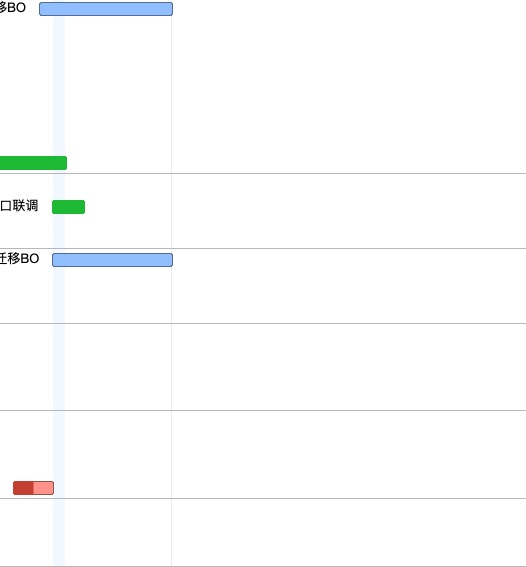
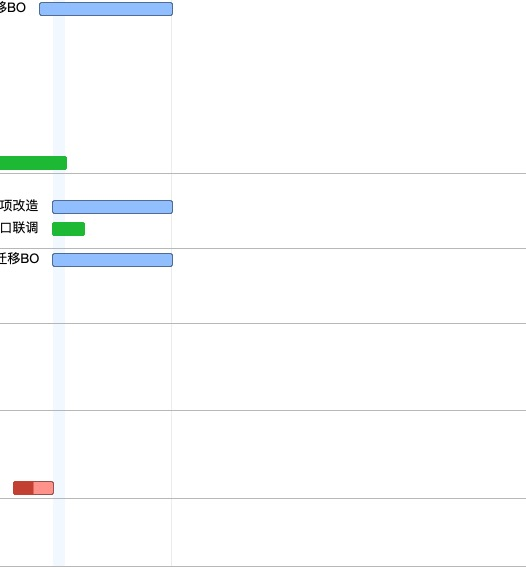
upgrade

Changed region(s): [[0.0, 0.3298, 0.3346, 0.4198]]

diff --git a/FSCv1910/gantt.html b/FSCv1910/gantt.html
@@ -30,28 +30,28 @@
 	<h1>FSCv1910：甘特图</h1>
 		<div class="tablewrap"><table border="0" cellspacing="0" cellpadding="0">
 <tr>
-	<td><img src="include/gantt0,0.jpg?nocacheTag=-944571054" border=0/></td>
-	<td><img src="include/gantt1,0.jpg?nocacheTag=-503428031" border=0/></td>
+	<td><img src="include/gantt0,0.jpg?nocacheTag=-1644685447" border=0/></td>
+	<td><img src="include/gantt1,0.jpg?nocacheTag=-1307821228" border=0/></td>
 </tr>
 <tr>
-	<td><img src="include/gantt0,1.jpg?nocacheTag=1110593521" border=0/></td>
-	<td><img src="include/gantt1,1.jpg?nocacheTag=86645347" border=0/></td>
+	<td><img src="include/gantt0,1.jpg?nocacheTag=-980412770" border=0/></td>
+	<td><img src="include/gantt1,1.jpg?nocacheTag=-256578804" border=0/></td>
 </tr>
 <tr>
-	<td><img src="include/gantt0,2.jpg?nocacheTag=219761669" border=0/></td>
-	<td><img src="include/gantt1,2.jpg?nocacheTag=-72248886" border=0/></td>
+	<td><img src="include/gantt0,2.jpg?nocacheTag=-1946728188" border=0/></td>
+	<td><img src="include/gantt1,2.jpg?nocacheTag=1980436838" border=0/></td>
 </tr>
 <tr>
-	<td><img src="include/gantt0,3.jpg?nocacheTag=1398989201" border=0/></td>
-	<td><img src="include/gantt1,3.jpg?nocacheTag=1748326239" border=0/></td>
+	<td><img src="include/gantt0,3.jpg?nocacheTag=-355829046" border=0/></td>
+	<td><img src="include/gantt1,3.jpg?nocacheTag=741122505" border=0/></td>
 </tr>
 <tr>
-	<td><img src="include/gantt0,4.jpg?nocacheTag=-1518446128" border=0/></td>
-	<td><img src="include/gantt1,4.jpg?nocacheTag=-1741873305" border=0/></td>
+	<td><img src="include/gantt0,4.jpg?nocacheTag=-184918016" border=0/></td>
+	<td><img src="include/gantt1,4.jpg?nocacheTag=-144047482" border=0/></td>
 </tr>
 <tr>
-	<td><img src="include/gantt0,5.jpg?nocacheTag=1729067344" border=0/></td>
-	<td><img src="include/gantt1,5.jpg?nocacheTag=-361768638" border=0/></td>
+	<td><img src="include/gantt0,5.jpg?nocacheTag=708191175" border=0/></td>
+	<td><img src="include/gantt1,5.jpg?nocacheTag=-1404297167" border=0/></td>
 </tr>
 </table>
 </div>

diff --git a/FSCv1910/index.html b/FSCv1910/index.html
@@ -32,8 +32,8 @@
 			<p class="number"><span class="data-missing">无</span></p>
 		</div>
 		<div id="completed" class="box">
-			<h2><span class="number">53%</span>已完成</h2>
-			<div id="bar"><div id="fill" style="width:53%;"></div></div>
+			<h2><span class="number">52%</span>已完成</h2>
+			<div id="bar"><div id="fill" style="width:52%;"></div></div>
 			<p><span class="label">开始：</span>2019/7/17 上午8:00</p>
 			<p><span class="label">结束日期：</span>2019/9/13 下午7:00</p>
 			<p><span class="label">差异：</span>3 周 2 天 4 小时</p>
@@ -161,9 +161,9 @@
 <tr class="resource Staff">
 <td style="padding-left: 20px;">雷森品</td>
 <td>2019/7/30 上午9:00</td>
-<td>2019/8/22 下午1:40</td>
-<td>&lt; 1 周 2 天 2.75 小时</td>
-<td>100%</td>
+<td>2019/8/30 下午7:00</td>
+<td>&lt; 3 周 1 天 2.75 小时</td>
+<td>57%</td>
 <td></td>
             </tr>
 <tr class="resource Staff">

diff --git a/FSCv1910/resource.html b/FSCv1910/resource.html
@@ -608,9 +608,9 @@
 <tr class="resource Staff">
 <td style="padding-left: 20px;">雷森品</td>
 <td>2019/7/30 上午9:00</td>
-<td>2019/8/22 下午1:40</td>
-<td>&lt; 1 周 2 天 2.75 小时</td>
-<td>100%</td>
+<td>2019/8/30 下午7:00</td>
+<td>&lt; 3 周 1 天 2.75 小时</td>
+<td>57%</td>
 <td></td>
             </tr>
 <tr>
@@ -627,6 +627,14 @@
 <td>2019/8/22 下午1:40</td>
 <td>&lt; 2 天 2.75 小时</td>
 <td>100%</td>
+<td></td>
+            </tr>
+<tr>
+<td style="padding-left: 28px;" class="wrap taskTypeTask">评价项改造</td> 
+<td>2019/8/20 上午9:00</td>
+<td>2019/8/30 下午7:00</td>
+<td>1 周 4 天</td>
+<td>0%</td>
 <td></td>
             </tr>
 <tr class="resource Staff">

diff --git a/FSCv1910/task.html b/FSCv1910/task.html
@@ -1085,6 +1085,22 @@
 <td></td>
 <td></td>
             </tr>
+<tr class="taskTypeTask">
+<td style="padding-left: 18px;" class="wrap">8) 评价项改造</td>
+<td>2019/8/20 上午9:00</td>
+<td>2019/8/30 下午7:00</td>
+<td>1 周 4 天</td>
+<td>0%</td>
+<td></td>
+<td class="total"></td>
+<td>雷森品</td>
+<td></td>
+<td></td>
+<td>2019/8/20 上午9:00</td>
+<td></td>
+<td></td>
+<td></td>
+            </tr>
 </table>
         </div><!-- end table wrap -->
 	</div>

diff --git a/FSCv1910/eva.html b/FSCv1910/eva.html
@@ -1086,6 +1086,22 @@
 		<td></td>
 		<td></td>
 	</tr>
+	<tr>
+		<td style="padding-left: 18px;" class="wrap">8) 评价项改造</td>
+		<td></td>
+		<td></td>
+		<td></td>
+		<td></td>
+		<td></td>
+		<td></td>
+		<td></td>
+		<td></td>
+		<td></td>
+		<td></td>
+		<td></td>
+		<td></td>
+		<td></td>
+	</tr>
 	</table>
         </div><!-- end table wrap -->
 	</div>
